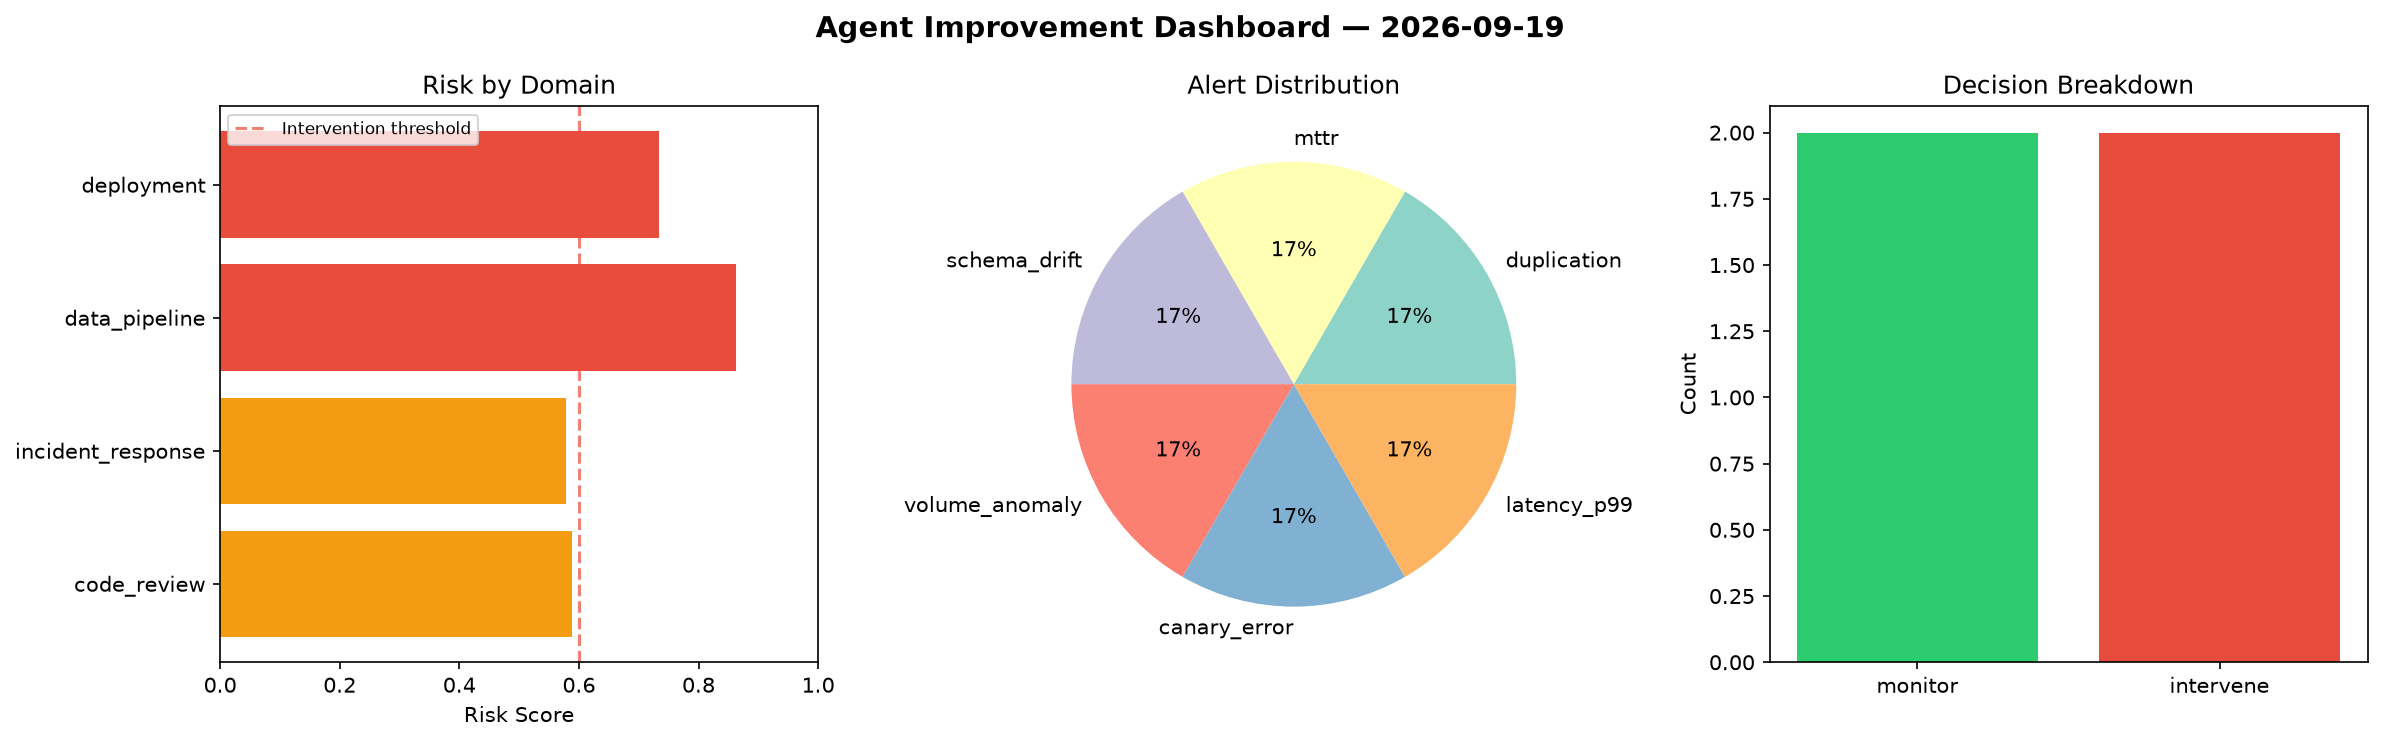
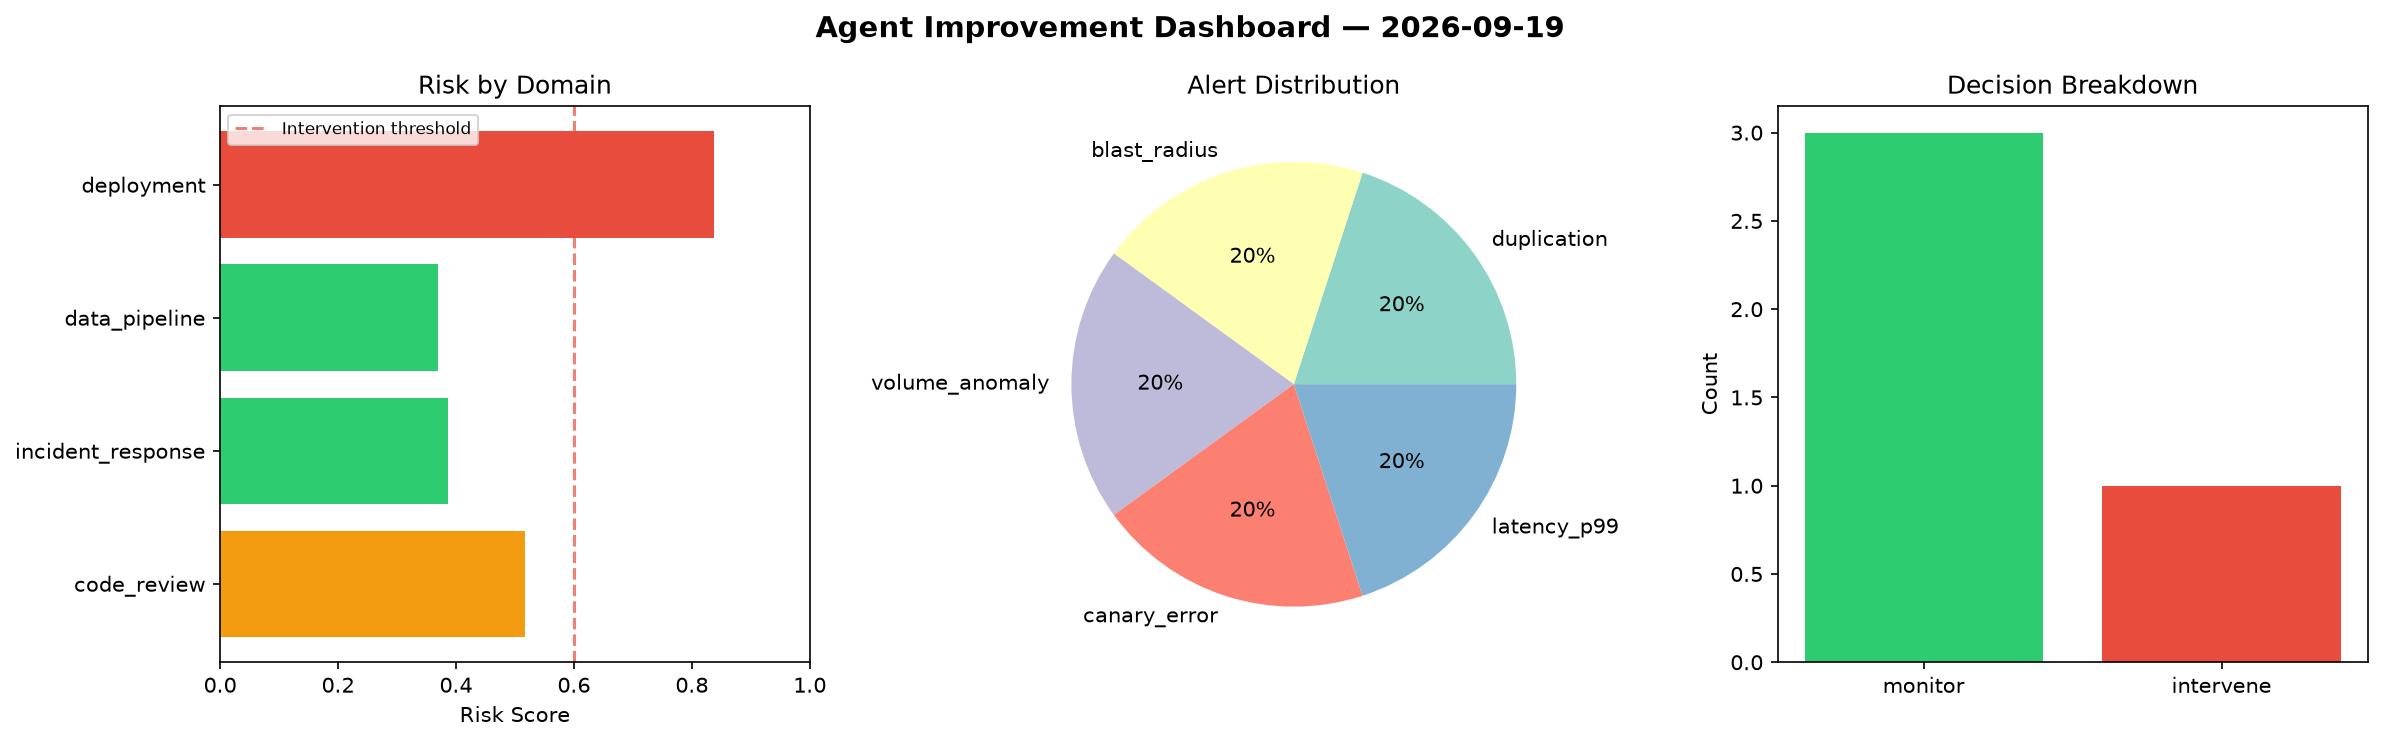
agent-improvement: daily cycle 2026-09-19T22:19

diff --git a/logs/2026-09-19.md b/logs/2026-09-19.md
@@ -1,6 +1,6 @@
 # Agent Improvement Report — 2026-09-19
 
-**Cycle ID:** `a827ab42` | **Avg Risk:** 0.6908 | **Interventions:** 2/4
+**Cycle ID:** `5ed6202a` | **Avg Risk:** 0.5275 | **Interventions:** 1/4
 
 ![Dashboard](2026-09-19_dashboard.png)
 
@@ -10,18 +10,18 @@
 
 | Domain | Risk Score | Decision | Alerts |
 |--------|-----------|----------|--------|
-| code_review | 0.5892 | monitor | duplication |
-| incident_response | 0.5779 | monitor | mttr |
-| data_pipeline | 0.8629 | intervene | schema_drift, volume_anomaly |
-| deployment | 0.7331 | intervene | canary_error, latency_p99 |
+| code_review | 0.5162 | monitor | duplication |
+| incident_response | 0.3858 | monitor | blast_radius |
+| data_pipeline | 0.3703 | monitor | volume_anomaly |
+| deployment | 0.8378 | intervene | canary_error, latency_p99 |
 
 ## Delta vs Yesterday
 
 | Domain | Today | Yesterday | Change |
 |--------|-------|-----------|--------|
-| code_review | 0.5892 | 0.2897 | 📈 103.4% |
-| incident_response | 0.5779 | 0.6154 | 📉 -6.1% |
-| data_pipeline | 0.8629 | 0.6899 | 📈 25.1% |
-| deployment | 0.7331 | 0.375 | 📈 95.5% |
+| code_review | 0.5162 | 0.2897 | 📈 78.2% |
+| incident_response | 0.3858 | 0.6154 | 📉 -37.3% |
+| data_pipeline | 0.3703 | 0.6899 | 📉 -46.3% |
+| deployment | 0.8378 | 0.375 | 📈 123.4% |
 
 **Refinement:** `{'adjustment': 'tighten_thresholds', 'trend': 'degrading', 'window': 4}`
